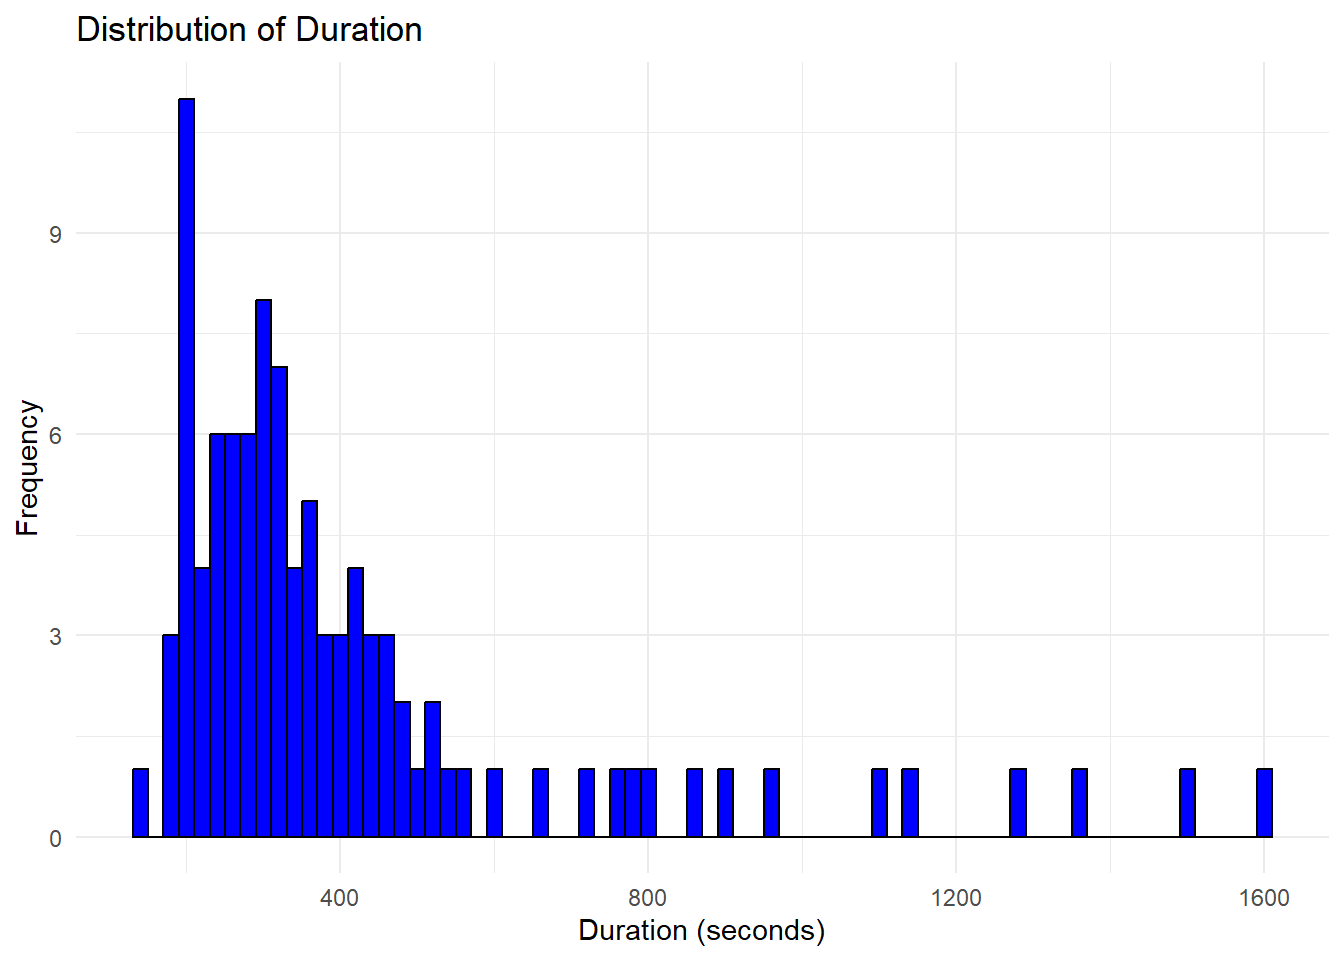
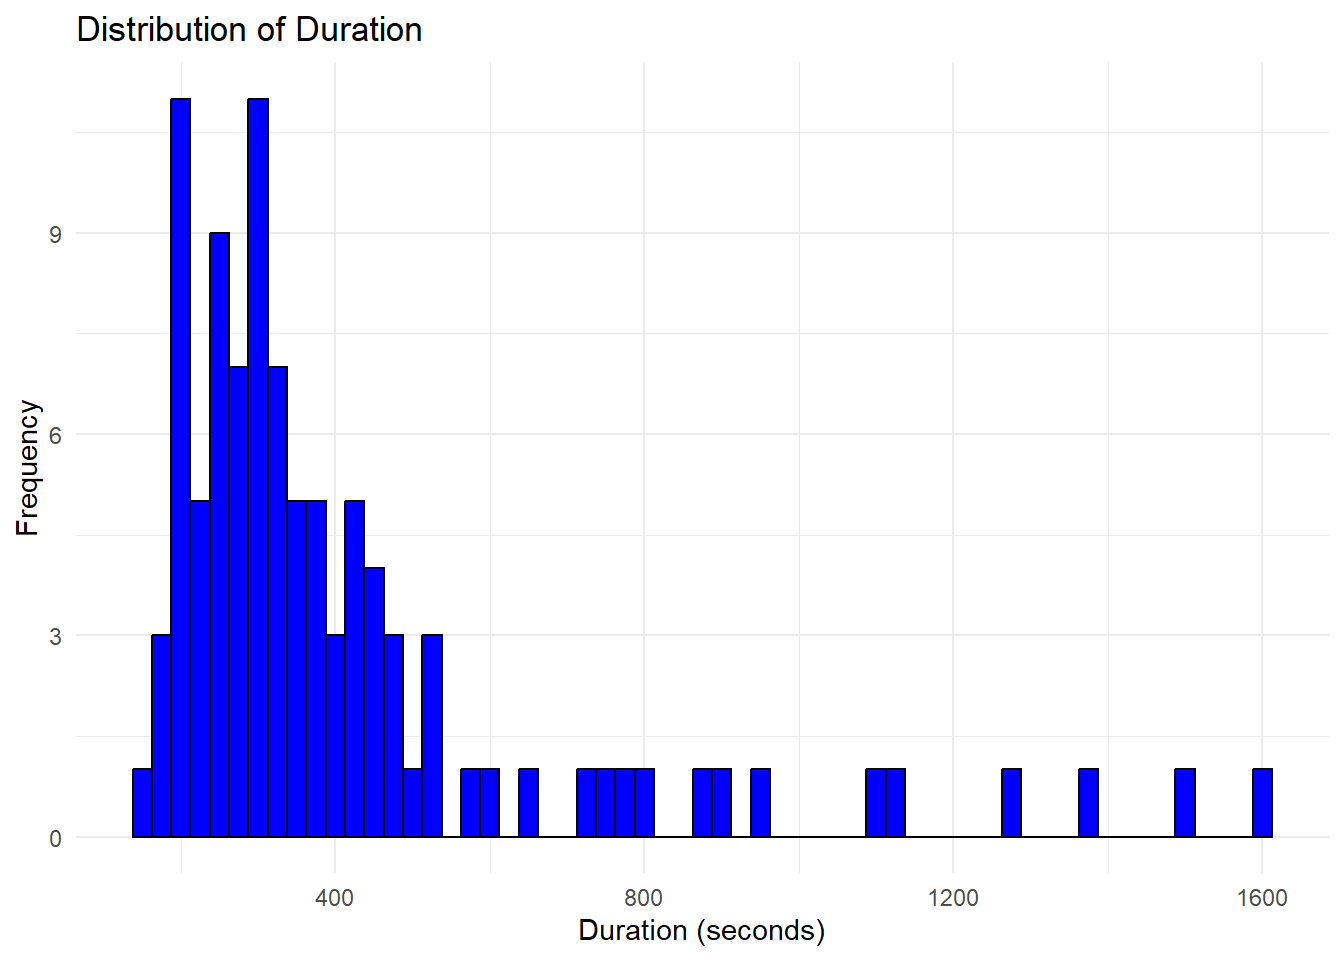
finishing up

diff --git a/docs/p01.html b/docs/p01.html
@@ -305,7 +305,8 @@ and of high quality in terms of writing, grammar, presentation, etc.</p>
 <pre class="r"><code>library(tidyverse) 
 library(tidyr)</code></pre>
 <pre class="r"><code>ideal_society &lt;- read.csv(&quot;C:\\Users\\Ben\\OneDrive\\Documents\\RRRPILOT_IdealSocietiesConservative Values_February 10, 2025_07.27.csv&quot;)</code></pre>
-<p>Changing the format of the StartDate variable to POSIX</p>
+<p>Changing the format of the StartDate variable to POSIX because
+apparently I need to.</p>
 <pre class="r"><code>ideal_society$StartDate &lt;- as.POSIXct(ideal_society$StartDate, format=&quot;%Y-%m-%d %H:%M:%S&quot;, tz=&quot;UTC&quot;)</code></pre>
 <p>Filtering out responses that were not collected through
 Prolific.These were tests of the survey that qualtrics includes in the
@@ -315,53 +316,28 @@ final data export.</p>
   filter(Progress != 14)</code></pre>
 <p>Removing one response from the data because their free response was
 not thoughtful enough. They just wrote “5” for our question asking what
-they would like to see happen in washington.</p>
+they would like to see happen in washington. Not cool.</p>
 <pre class="r"><code>ideal_society_clean &lt;- ideal_society_real_data %&gt;%
   filter(Q127 != 5)</code></pre>
-<p>Lorem ipsum dolor sit amet, consectetur adipiscing elit. Vestibulum
-eget nibh vel est aliquet iaculis at placerat sem. Aenean faucibus
-iaculis ultricies. Nullam consequat odio in ultricies ullamcorper. Etiam
-venenatis in est vitae ullamcorper. Nam vitae urna ut dolor rhoncus
-aliquet at vel neque. Quisque tristique leo finibus nisi interdum, sit
-amet tempor risus viverra. Donec mollis vulputate sodales. Nunc ornare,
-leo quis euismod eleifend, eros mi maximus felis, vel varius lacus dui
-eget nibh. Duis vitae nunc nisl. Donec accumsan aliquam elit, eu
-fringilla quam pulvinar eget.</p>
-<p>Mauris in ligula mauris. Curabitur facilisis pharetra metus eget
-lobortis. In egestas nibh sit amet faucibus eleifend. Suspendisse
-imperdiet viverra blandit. Phasellus consectetur tincidunt eros eu
-facilisis. Quisque maximus, orci eget sodales aliquam, velit lorem
-semper dolor, nec convallis erat ipsum mattis velit. Pellentesque
-porttitor, mauris vitae aliquam mattis, metus nisl viverra turpis, vel
-convallis metus sapien et ex. Nunc consequat ipsum id dolor eleifend,
-sit amet semper eros sodales. Pellentesque consectetur, dui quis
-venenatis malesuada, nunc lorem lacinia libero, vitae malesuada dui arcu
-in augue. Aliquam id sagittis libero. Vestibulum aliquet sagittis
-libero, non posuere odio molestie ut. Curabitur lacus enim, viverra vel
-odio non, pretium efficitur elit. Mauris posuere efficitur interdum.
-Nunc sed bibendum turpis, quis fringilla velit. Phasellus eu lorem
-lobortis eros molestie laoreet.</p>
+<p>Here’s a plot showing a distribution of participants survey response
+durations. Practicing visualizing data!</p>
 <pre class="r"><code>ideal_society_clean &lt;- ideal_society_clean %&gt;%
   mutate(Duration..in.seconds. = as.numeric(Duration..in.seconds.))
 
 ggplot(ideal_society_clean, aes(x = Duration..in.seconds.)) +
-  geom_histogram(binwidth = 20, fill = &quot;blue&quot;, color = &quot;black&quot;) +
+  geom_histogram(binwidth = 25, fill = &quot;blue&quot;, color = &quot;black&quot;) +
   labs(title = &quot;Distribution of Duration&quot;, x = &quot;Duration (seconds)&quot;, y = &quot;Frequency&quot;) +
   theme_minimal()</code></pre>
-<p><img src="p01_files/figure-html/plot_duration-1.png" width="672" /></p>
-<pre class="r"><code>ideal_society_clean &lt;- ideal_society_clean %&gt;%
-  mutate(Q2 = as.numeric(Q2))
-
-ggplot(ideal_society_clean, aes(x = Q2, y = Duration..in.seconds.)) +
-  geom_point(alpha = 0.6, color = &quot;blue&quot;) +  
-  geom_smooth(method = &quot;lm&quot;, se = TRUE, color = &quot;red&quot;) + 
-  labs(title = &quot;Correlation Between Political Orientation and Duration to Complete Survey&quot;,
-       x = &quot;Political Orientation (1 liberal-11 conservative)&quot;, y = &quot;Duration (seconds)&quot;) +
-  theme_minimal()</code></pre>
-<pre><code>## `geom_smooth()` using formula = &#39;y ~ x&#39;</code></pre>
-<p><img src="p01_files/figure-html/poli_ori_duration_corr-1.png" width="672" /></p>
-<pre class="r"><code>cor(ideal_society_clean$Duration..in.seconds.,ideal_society_clean$Q2)</code></pre>
-<pre><code>## [1] 0.1206867</code></pre>
+<p><img src="p01_files/figure-html/plot_duration-1.png" width="672" />
+Checking for any outliers. According to Prolific, we don’t have to pay
+anyone who is three SD below the mean.</p>
+<pre class="r"><code>z_score_duration &lt;- scale(ideal_society_clean$Duration..in.seconds.)
+ideal_society_clean$outlier &lt;- abs(z_score_duration) &gt; 3</code></pre>
+<p>This checked for outliers based on duration it took to complete the
+survey and while there were three participants where their duration was
+farther than 3 standard deviations from the mean, they were all greater
+than the mean and we are more concerned with people speeding thorugh the
+suvey than taking a longer time.</p>
 
 
 
